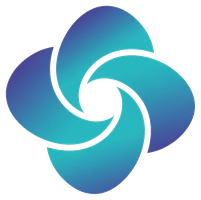
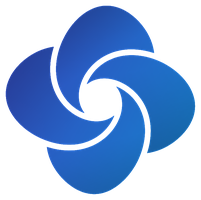
fix(brand): 去掉标记外的多余底框，内联版改用品牌靛蓝并补暗色适配
- 侧栏与登录弹窗此前给标记套了一层浅靛蓝底框。弹窗那处原本是想给居中的标记一个落点，
  但侧栏尺寸小、周围元素密，同样的处理只会多出一层视觉噪音。两处一并去掉，
  改为放大裸放，靠尺寸与留白建立层级
- 内联版沿用了生成图的青绿渐变（实测主色 #20A0A0），与品牌主色 indigo-600 不符。
  重新上色为 indigo-700 → sky-500，与底板版同一套色；只替换色相、保留原图明度层次，
  直接铺位置渐变会把花瓣压成扁平色块
- 标记是 PNG，无法用 CSS 换色，而深靛蓝在近黑底上对比不足。补一张提亮的暗色专用图
  （indigo-400 → sky-400），由 LogoMark 按主题切换（与 VendorIcon 同一套做法）；
  solid 变体自带深底板，两种主题都够，不参与切换

验证：./scripts/ci-pr.sh 全绿（lint / design:check / 1003 项单测 / build /
bundle-diff），另跑通 boundary:imports、size:check、audit:deps 与 7 项 e2e。
浅色与暗色下均已实地核对顶栏与登录弹窗。

diff --git a/packages/assets/src/brand/LogoMark.tsx b/packages/assets/src/brand/LogoMark.tsx
@@ -1,3 +1,4 @@
+import markInlineDark from "./images/clirelay-mark-dark.png";
 import markInline from "./images/clirelay-mark.png";
 import markSolid from "./images/clirelay-mark-solid.png";
 
@@ -8,17 +9,18 @@ import markSolid from "./images/clirelay-mark-solid.png";
  * 即「多家模型汇聚到一个入口」，与产品定位对应。
  *
  * 两个变体：
- * - `inline`：无底板的渐变符号，用于顶栏、页脚等与文字并排的位置。
- * - `solid`：渐变圆角方底板 + 白色负空间符号，用于 favicon / app icon / OG 图；
+ * - `inline`：无底板的渐变符号，用于顶栏、页脚、弹窗等与文字并排的位置。
+ * - `solid`：渐变圆角方底板 + 白色花瓣，用于 favicon / app icon / OG 图；
  *   实心底板保证在 16px 或任意背景色上轮廓不丢。
  *
- * 资源是透明 PNG（实际渲染尺寸不超过 64px，2x 屏也够用）。渐变本身在纯白与近黑上都有
- * 足够对比，因此浅色/暗色主题共用同一张图，不做运行时切换。
+ * 资源是透明 PNG，不能像 SVG 那样用 CSS 换色。内联版在深色底上需要更亮的一套色，
+ * 所以出了浅色/暗色两张图并按主题切换（与 VendorIcon 同一套做法）；
+ * `solid` 自带深底板，两种主题下对比都够，不需要切换。
  */
 
 export type LogoMarkVariant = "inline" | "solid";
 
-/** 内联标记的宽高比（箭头造型天然横向）。用 size 控制高度，宽度按此比例推导。 */
+/** 内联标记接近正方形。用 size 控制高度，宽度按此比例推导，避免被拉伸。 */
 const INLINE_ASPECT = 201 / 200;
 
 export interface LogoMarkProps {
@@ -33,17 +35,24 @@ export interface LogoMarkProps {
 export function LogoMark({ size = 32, variant = "inline", className, title }: LogoMarkProps) {
   const solid = variant === "solid";
   const width = solid ? size : Math.round(size * INLINE_ASPECT);
+  const shared = {
+    width,
+    height: size,
+    alt: title ?? "",
+    "aria-hidden": title ? undefined : true,
+    draggable: false,
+    style: { width, height: size },
+  } as const;
 
+  if (solid) {
+    return <img src={markSolid} {...shared} className={className} />;
+  }
+
+  const join = (extra: string) => [extra, className].filter(Boolean).join(" ");
   return (
-    <img
-      src={solid ? markSolid : markInline}
-      width={width}
-      height={size}
-      alt={title ?? ""}
-      aria-hidden={title ? undefined : true}
-      draggable={false}
-      className={className}
-      style={{ width, height: size }}
-    />
+    <>
+      <img src={markInline} {...shared} className={join("dark:hidden")} />
+      <img src={markInlineDark} {...shared} className={join("hidden dark:block")} />
+    </>
   );
 }

diff --git a/pages/api-key-lookup/components/PortalLoginForm.tsx b/pages/api-key-lookup/components/PortalLoginForm.tsx
@@ -45,10 +45,7 @@ export function PortalLoginForm({
   return (
     <div>
       <div className="flex flex-col items-center pb-8 text-center">
-        {/* 标记外面套一层柔和方框，让它在纯白弹窗上有落点，而不是悬空 */}
-        <span className="mb-5 inline-flex h-14 w-14 items-center justify-center rounded-2xl bg-indigo-50 ring-1 ring-indigo-500/15 dark:bg-indigo-500/10 dark:ring-indigo-400/20">
-          <LogoMark size={22} />
-        </span>
+        <LogoMark size={44} className="mb-5" />
         <h2 className="font-display text-2xl font-bold tracking-tight text-slate-950 dark:text-white">
           {t("apikey_lookup.login_title", { defaultValue: "登录" })}
         </h2>

diff --git a/apps/admin-panel/src/app/layout/AppShell.tsx b/apps/admin-panel/src/app/layout/AppShell.tsx
@@ -907,11 +907,8 @@ function ShellSidebar({
                 (visualRailCollapsed ? "opacity-100 group-hover/sidebar:opacity-0" : "opacity-100")
               }
             >
-              <span
-                data-sidebar-logo="true"
-                className="grid h-8 w-8 place-items-center rounded-xl bg-indigo-50 ring-1 ring-indigo-500/15 dark:bg-indigo-500/10 dark:ring-indigo-400/20"
-              >
-                <LogoMark size={17} />
+              <span data-sidebar-logo="true" className="grid h-8 w-8 place-items-center">
+                <LogoMark size={26} />
               </span>
             </span>
             <span
